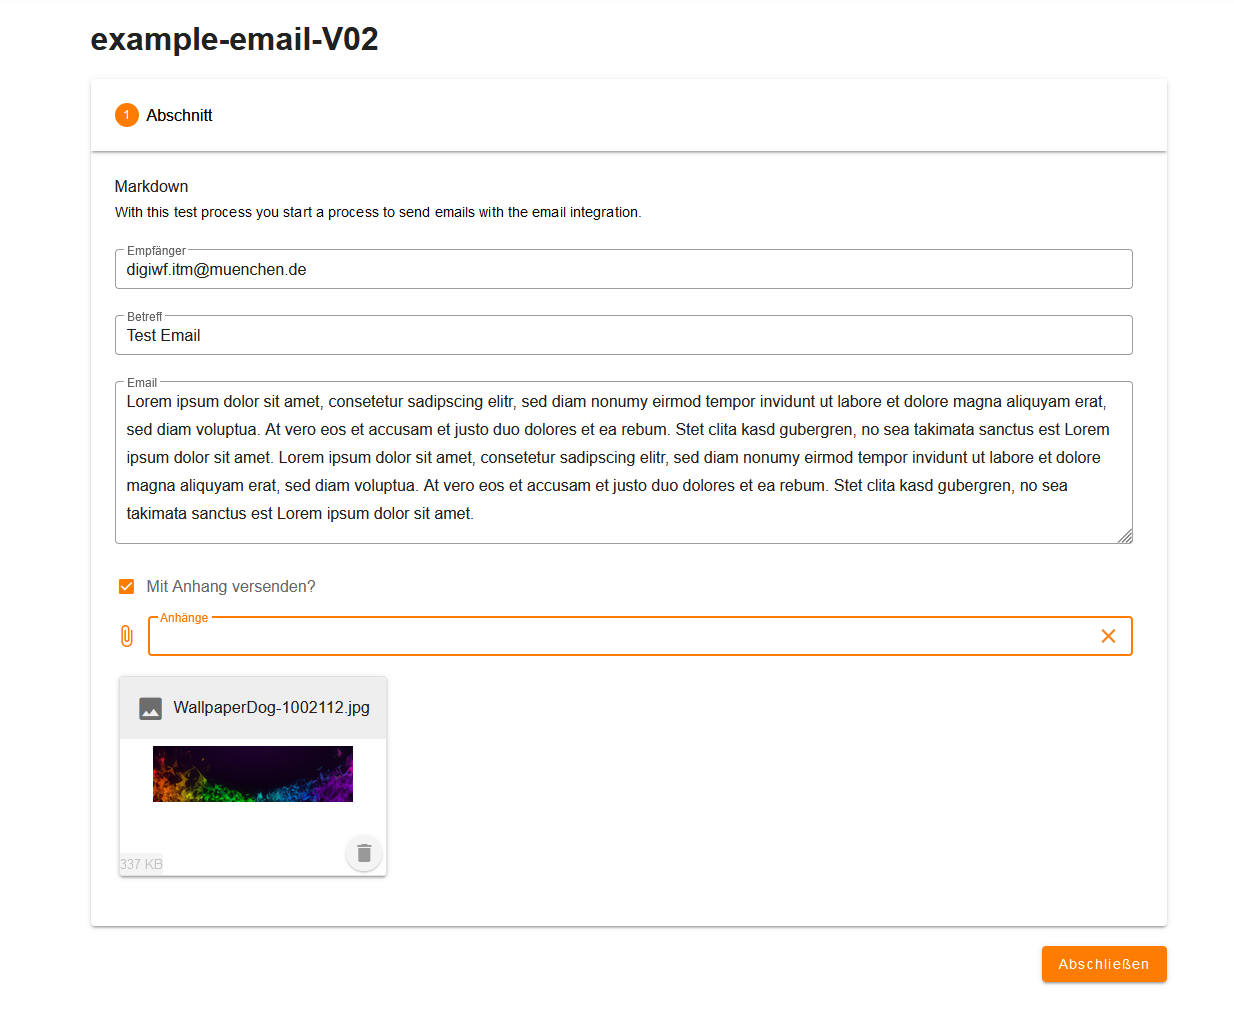
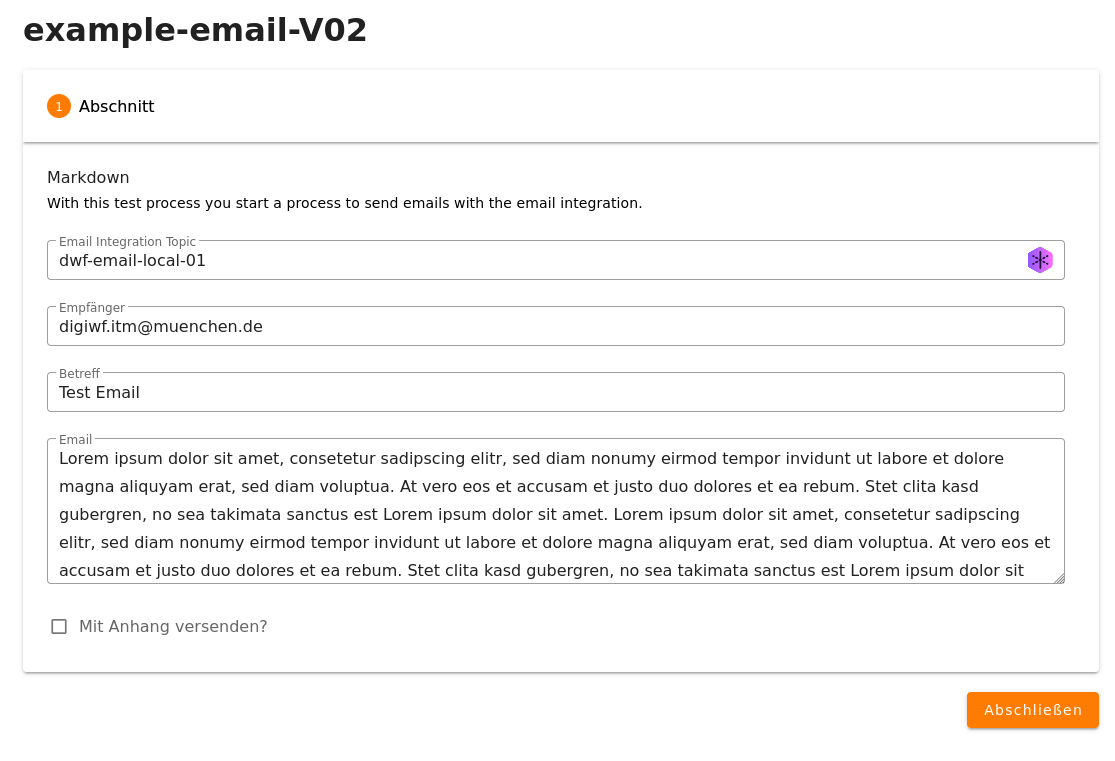
docs: refactor example process

diff --git a/docs/src/documentation/featureprocesses/email/README.md b/docs/src/documentation/featureprocesses/email/README.md
@@ -17,5 +17,6 @@ Sollte das Versenden der Email fehlschlagen (z.B. weil keine gültige Email Addr
 
 Wird im Startformular der Haken für das Versenden einer Email mit Dateianhängen gesetzt, kann mit diesem Prozess auch gleichzeitig das S3-Feature
 verifiziert werden.
+Hierfür wird ein zweiter Usertask erstellt, in dem der Benutzer die Datei auswählen kann, die als Anhang an die Email angehängt werden soll.
 
 ![Prüfformular](~@source/documentation/featureprocesses/email/fehlermeldung-pruefen.png)
